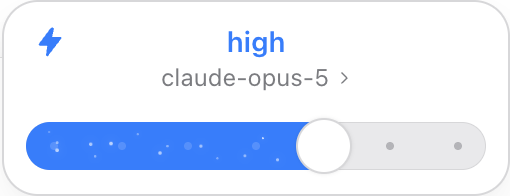
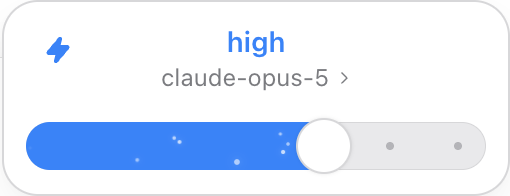
fix: 对齐 Codex 闪电开关的完整动画过渡
将局部往返漂移改为按完整轨道计算的单向粒子流，匹配圆点离场与回位、最高档粒子交接、按钮尺寸和图标状态。

补充单向匀速运动、菜单重开和最高档交接验证，更新 DSH 实录动图与动画参数对照。

diff --git a/src/styles.css b/src/styles.css
@@ -1,28 +1,41 @@
 .dcp-settings{color:var(--dsw-alias-label-primary);font:inherit;width:100%}.dcp-setting-row{display:flex;align-items:center;justify-content:space-between;gap:24px;padding:16px 0;border-bottom:.5px solid var(--dsw-alias-border-l2);font-size:14px;line-height:20px}
 .dcp-segmented{display:flex;gap:2px;border-radius:10px;background:color-mix(in srgb,currentColor 6%,transparent);padding:3px}.dcp-segmented label{position:relative;cursor:pointer}.dcp-segmented input{position:absolute;opacity:0;width:100%;height:100%;margin:0}.dcp-segmented span{display:block;padding:7px 14px;border-radius:8px;font-size:13px}.dcp-segmented input:checked+span{background:var(--ds-color-background-elevated,#fff);box-shadow:0 1px 4px #00000014}.dcp-segmented input:focus-visible+span{outline:2px solid #387df8;outline-offset:1px}
 
-.dcp-picker-trigger,.dcp-picker-panel{--dcp-text:#161719;--dcp-muted:#7b7c80;--dcp-surface:#fff;--dcp-border:#d7d7d9;--dcp-hover:#f3f3f4;--dcp-track:#e9e9eb;--dcp-accent:#387dfa;box-sizing:border-box;color:var(--dcp-text);font-family:-apple-system,BlinkMacSystemFont,"Segoe UI",sans-serif}
+.dcp-picker-trigger,.dcp-picker-panel{--dcp-text:#161719;--dcp-muted:#7b7c80;--dcp-surface:#fff;--dcp-border:#d7d7d9;--dcp-hover:#f3f3f4;--dcp-track:#e9e9eb;--dcp-accent:#3a83f7;--dcp-purple:#924ff7;box-sizing:border-box;color:var(--dcp-text);font-family:-apple-system,BlinkMacSystemFont,"Segoe UI",sans-serif}
 .dcp-picker-trigger{display:inline-flex;align-items:center;gap:4px;max-width:360px;border:0;background:transparent;padding:4px 5px;font-size:13px;line-height:20px;cursor:pointer;border-radius:999px;padding:4px 10px;transition:background-color .12s ease}.dcp-picker-trigger>span:first-child{overflow:hidden;white-space:nowrap;text-overflow:ellipsis}.dcp-picker-trigger .dcp-chevron{transform:rotate(90deg);margin-left:2px;width:10px;height:10px;color:var(--dcp-muted)}.dcp-trigger-effort{color:var(--dcp-muted);flex:none}.dcp-picker-trigger:not(:disabled):hover{background:var(--dcp-hover)}
 .dcp-chevron,.dcp-check{flex:none;fill:none;stroke:currentColor;stroke-linecap:round;stroke-linejoin:round;stroke-width:1.5}.dcp-check{color:var(--dcp-muted)}
 .dcp-picker-panel{position:fixed;z-index:1200;width:min(254px,calc(100vw - 24px));border:.5px solid var(--dcp-border);border-radius:18px;background:var(--dcp-surface);box-shadow:0 8px 18px #00000010;overflow:hidden;padding:8px;isolation:isolate}.dcp-picker-content{display:flex;flex-direction:column;height:100%;min-height:0}.dcp-picker-views{position:relative;flex:1;min-height:0;overflow:clip}.dcp-picker-pane{position:absolute;inset:0 0 auto;opacity:1;translate:0}.dcp-picker-models{height:100%;display:flex;flex-direction:column}.dcp-picker-pane[data-active=false]{pointer-events:none;opacity:0}.dcp-picker-root[data-active=false]{translate:0 -10px}.dcp-picker-models[data-active=false]{translate:0 10px}.dcp-model-header{flex:none}.dcp-model-list{flex:1;min-height:0;overflow-y:auto;overscroll-behavior:contain;scrollbar-width:none}.dcp-model-list::-webkit-scrollbar{display:none;width:0;height:0}
 .dcp-picker-panel *{box-sizing:border-box}.dcp-picker-panel button{color:inherit;font:inherit;cursor:pointer}.dcp-picker-panel button:disabled,.dcp-picker-trigger:disabled{cursor:default;opacity:.5}.dcp-picker-panel button:focus-visible,.dcp-picker-trigger:focus-visible{outline:2px solid var(--dcp-accent,#387dfa);outline-offset:1px}
 .dcp-codex-effort{padding:0 3px 2px}.dcp-effort-title{text-align:center;color:var(--dcp-accent);font-size:14px;line-height:20px;font-weight:600}.dcp-model-link{display:flex;flex-direction:column;align-items:center;justify-content:center;max-width:100%;margin:0 auto;padding:2px 8px;border:0;border-radius:6px;background:transparent;transition:background-color .12s ease}.dcp-model-link:hover,.dcp-model-link:focus-visible{background:var(--dcp-hover)}.dcp-current-model{display:flex;align-items:center;justify-content:center;gap:3px;max-width:100%;font-size:12px;line-height:16px;color:var(--dcp-muted);white-space:nowrap;overflow:hidden;text-overflow:ellipsis}.dcp-model-link .dcp-chevron{width:8px;height:8px}
-.dcp-effort-header{position:relative}.dcp-effort-header .dcp-model-link{max-width:calc(100% - 48px)}.dcp-picker-panel .dcp-boost{position:absolute;top:0;left:0;display:grid;place-items:center;width:24px;height:24px;border:0;border-radius:6px;padding:4px;background:transparent;color:var(--dcp-muted);transition:color .15s ease,background-color .12s ease}.dcp-boost svg{fill:transparent;stroke:currentColor;stroke-width:1.6;stroke-linecap:round;stroke-linejoin:round;transition:fill .15s ease}.dcp-boost:hover{background:var(--dcp-hover)}.dcp-picker-panel .dcp-boost[aria-pressed=true]{color:var(--dcp-accent)}.dcp-boost[aria-pressed=true] svg{fill:currentColor}
+.dcp-effort-header{position:relative}.dcp-effort-header .dcp-model-link{max-width:calc(100% - 64px)}.dcp-picker-panel .dcp-boost{position:absolute;top:0;left:0;display:grid;place-items:center;width:32px;height:32px;border:0;border-radius:8px;padding:0;background:transparent;color:var(--dcp-muted)}.dcp-boost-content{display:grid;place-items:center;width:26px;height:26px;border-radius:7px}.dcp-boost svg{fill:currentColor}.dcp-boost:hover .dcp-boost-content,.dcp-boost:focus-visible .dcp-boost-content{background:var(--dcp-hover)}.dcp-picker-panel .dcp-boost[aria-pressed=true]{color:var(--dcp-accent)}.dcp-codex-effort[data-highest] .dcp-boost[aria-pressed=true]{color:var(--dcp-purple)}
 .dcp-current-model>span{min-width:0;overflow:hidden;text-overflow:ellipsis}
+.dcp-max-particle-layer{position:absolute;inset:0;z-index:3;pointer-events:none;opacity:1;transform:translateX(0)}.dcp-codex-effort[data-boosted] .dcp-max-particle-layer{opacity:0;transform:translateX(-110px);transition:opacity .55s cubic-bezier(.42,0,1,1) 1s,transform 1.35s cubic-bezier(.42,0,1,1) .2s}.dcp-max-particle-layer[data-returning]{animation:dcp-max-particles-return-x .5s ease-out .05s both,dcp-max-particles-return-opacity .5s linear .05s both}
+.dcp-fast-clip{position:absolute;inset:0;z-index:4;overflow:hidden;pointer-events:none;opacity:0;visibility:hidden;clip-path:inset(0 calc((100% - 28px)*(1 - var(--dcp-progress)) + 14px) 0 0);transition:clip-path var(--dcp-motion),opacity .25s cubic-bezier(.42,0,.58,1),visibility 0s .25s}.dcp-codex-effort[data-boosted] .dcp-fast-clip{opacity:1;visibility:visible;transition:clip-path var(--dcp-motion),opacity .08s cubic-bezier(.42,0,.58,1)}.dcp-codex-effort[data-highest] .dcp-fast-clip{clip-path:inset(0);transition:clip-path var(--dcp-motion),opacity .3s linear .1s,visibility 0s .4s}.dcp-codex-effort[data-highest][data-boosted] .dcp-fast-clip{transition:clip-path var(--dcp-motion),opacity .25s cubic-bezier(.42,0,1,1)}.dcp-codex-effort[data-minimum] .dcp-fast-clip{clip-path:inset(0 100% 0 0)}
+.dcp-fast-particles{position:absolute;inset:0;overflow:hidden;pointer-events:none}.dcp-fast-path{position:absolute;inset-inline:0;height:0;opacity:0;will-change:transform;animation:dcp-fast-travel linear infinite}.dcp-fast-path i{position:absolute;top:0;left:0;display:block;width:3px;height:3px;border-radius:999px;background:#ffffffb8;box-shadow:0 0 5px #ffffff57}.dcp-picker-root[data-active=false] .dcp-fast-path{animation-play-state:paused}
+@keyframes dcp-fast-travel{0%{opacity:0;transform:translateX(100%)}8%{opacity:1;transform:translateX(92%)}92%{opacity:1;transform:translateX(8%)}100%{opacity:0;transform:translateX(0)}}
+@keyframes dcp-max-particles-return-x{from{transform:translateX(28px)}to{transform:translateX(0)}}
+@keyframes dcp-max-particles-return-opacity{from{opacity:0}to{opacity:1}}
 .dcp-slider{position:relative;height:28px;margin-top:10px;--dcp-motion:.3s cubic-bezier(.23,1,.32,1)}.dcp-rail{position:absolute;inset:2px 0;height:24px;border-radius:12px;background:var(--dcp-track);box-shadow:inset 0 0 0 .5px #00000014;overflow:hidden}.dcp-rail-fill{position:absolute;inset:0 auto 0 0;width:calc(14px + (100% - 28px)*var(--dcp-progress));border-radius:12px 0 0 12px;background:var(--dcp-accent);transition:width var(--dcp-motion)}
 .dcp-ticks{position:absolute;inset:0 14px;pointer-events:none}.dcp-ticks i{position:absolute;top:50%;width:4px;height:4px;border-radius:50%;background:#b4b4b8;transform:translate(-50%,-50%);transition:transform .12s ease,filter .12s ease,background-color var(--dcp-motion)}.dcp-ticks i[data-filled]{background:#ffffff55}.dcp-ticks i[data-hovered]{filter:brightness(.85);transform:translate(-50%,-50%) scale(2)}
+.dcp-ticks i{transition:transform .12s ease,translate .12s linear,opacity .2s ease-in-out,filter .12s ease,background-color var(--dcp-motion)}.dcp-ticks i[data-filled]{background:#ffffff4d}.dcp-codex-effort[data-boosted] .dcp-ticks i[data-filled]{opacity:0;transform:translate(-50%,-50%) scale(.75);translate:-85px}.dcp-codex-effort[data-boost-phase=entering]:not([data-highest]) .dcp-ticks i[data-filled]{animation:dcp-boost-tick-scale .8s cubic-bezier(.23,1,.32,1) both,dcp-boost-tick-travel 1.15s ease-in-out .05s both,dcp-boost-tick-fade .5s ease-in-out .7s both}.dcp-codex-effort[data-boost-phase=active] .dcp-ticks i{transition:background-color var(--dcp-motion),opacity 0s,filter .12s ease,transform 0s,translate 0s}.dcp-codex-effort[data-boost-phase=exiting]:not([data-highest]) .dcp-ticks i[data-filled]{animation:dcp-boost-tick-return-scale .35s ease-in-out both,dcp-boost-tick-return-travel .35s ease-out both,dcp-boost-tick-return-fade .2s ease-in-out both}
+@keyframes dcp-boost-tick-scale{from{transform:translate(-50%,-50%) scale(1)}to{transform:translate(-50%,-50%) scale(.75)}}
+@keyframes dcp-boost-tick-travel{from{translate:0}to{translate:-85px}}
+@keyframes dcp-boost-tick-fade{from{opacity:1}to{opacity:0}}
+@keyframes dcp-boost-tick-return-scale{from{transform:translate(-50%,-50%) scale(.75)}to{transform:translate(-50%,-50%) scale(1)}}
+@keyframes dcp-boost-tick-return-travel{from{translate:10px}to{translate:0}}
+@keyframes dcp-boost-tick-return-fade{from{opacity:0}to{opacity:1}}
 .dcp-slider input{appearance:none;-webkit-appearance:none;position:absolute;inset:0;width:100%;height:28px;background:transparent;margin:0;cursor:default;touch-action:none;border:0;outline:none;border-radius:12px}.dcp-slider input::-webkit-slider-runnable-track{height:24px;background:transparent}.dcp-slider input::-webkit-slider-thumb{appearance:none;-webkit-appearance:none;width:28px;height:28px;margin-top:-2px;background:transparent;border:0;box-shadow:none}.dcp-slider input::-moz-range-track{height:24px;background:transparent}.dcp-slider input::-moz-range-thumb{width:28px;height:28px;background:transparent;border:0;box-shadow:none}.dcp-slider input:focus-visible{outline:none}.dcp-slider:has(input:focus-visible) .dcp-slider-thumb{outline:2px solid var(--dcp-accent);outline-offset:0}.dcp-slider input:disabled{cursor:default}.dcp-codex-effort[data-dragging] .dcp-slider{--dcp-motion:.15s cubic-bezier(.23,1,.32,1);cursor:grabbing}.dcp-codex-effort[data-dragging] .dcp-slider input{cursor:grabbing}
-.dcp-codex-effort[data-highest] .dcp-effort-title{color:#9655ff}.dcp-codex-effort[data-highest] .dcp-rail-fill{width:100%}.dcp-max-fill{position:absolute;inset:0;border-radius:12px;background:linear-gradient(90deg,#6471fc,#a15bff 55%,#8264fe);isolation:isolate;overflow:hidden;mask-image:linear-gradient(90deg,transparent calc(var(--dcp-reveal) - 120px),#000 var(--dcp-reveal))}.dcp-max-fill[data-reveal]{animation:dcp-max-reveal 2s both}.dcp-codex-effort[data-highest] .dcp-ticks{opacity:0}
+.dcp-codex-effort[data-highest] .dcp-effort-title{color:var(--dcp-purple)}.dcp-codex-effort[data-highest] .dcp-rail-fill{width:100%}.dcp-max-fill{position:absolute;inset:0;border-radius:12px;background:linear-gradient(90deg,#6471fc,#a15bff 55%,#8264fe);isolation:isolate;overflow:hidden;mask-image:linear-gradient(90deg,transparent calc(var(--dcp-reveal) - 120px),#000 var(--dcp-reveal))}.dcp-max-fill[data-reveal]{animation:dcp-max-reveal 2s both}.dcp-codex-effort[data-highest] .dcp-ticks{opacity:0}
 .dcp-max-fill canvas{display:block;width:100%;height:100%;mix-blend-mode:luminosity}.dcp-particles{position:absolute;inset:0;overflow:hidden;border-radius:12px;pointer-events:none}.dcp-particles i{position:absolute;display:block;width:3px;height:3px;border-radius:50%;background:#ffffffb8;box-shadow:0 0 5px #ffffff57;animation:dcp-spark var(--drift-duration) cubic-bezier(.45,0,.55,1) infinite alternate}
-.dcp-particles[data-boosted]{right:auto;width:calc(14px + (100% - 28px)*var(--dcp-progress));transition:width var(--dcp-motion)}.dcp-particles[data-boosted] i{width:2px;height:2px;--spark-drift:10px;animation-duration:var(--boost-duration)}.dcp-codex-effort[data-highest] .dcp-particles{width:100%}.dcp-codex-effort[data-minimum] .dcp-particles{width:0}.dcp-codex-effort[data-boosted] .dcp-ticks i[data-filled]{background:#ffffff26}
+
 .dcp-thumb-particles{position:absolute;left:calc(14px + (100% - 28px)*var(--dcp-progress));top:50%;pointer-events:none}.dcp-thumb-particles i{position:absolute;width:5px;height:5px;border-radius:50%;background:color-mix(in srgb,#a15bff var(--spark-purple,100%),#387dfa);animation:dcp-thumb-spark .62s cubic-bezier(.25,1,.5,1) both}
 @keyframes dcp-thumb-spark{0%{opacity:0;transform:translate(-50%,-50%) scale(.25)}22%{opacity:1;transform:translate(-50%,-50%) scale(1.28)}100%{opacity:0;transform:translate(calc(-50% + var(--spark-x)),calc(-50% + var(--spark-y))) scale(.55)}}
 @property --dcp-reveal{syntax:'<percentage>';inherits:false;initial-value:0%}
 @keyframes dcp-max-reveal{from{--dcp-reveal:100%}to{--dcp-reveal:0%}}
-@keyframes dcp-spark{from{transform:translate(calc(-50% - var(--spark-drift,4px)),calc(-50% + var(--drift-start))) scale(var(--particle-scale))}to{transform:translate(calc(-50% + var(--spark-drift,4px)),calc(-50% + var(--drift-end))) scale(var(--particle-scale))}}
+@keyframes dcp-spark{from{transform:translate(calc(-50% - 4px),calc(-50% + var(--drift-start))) scale(var(--particle-scale))}to{transform:translate(calc(-50% + 4px),calc(-50% + var(--drift-end))) scale(var(--particle-scale))}}
 .dcp-model-list{display:flex;flex-direction:column;gap:4px}.dcp-model-group{position:relative;flex:none;min-width:0}.dcp-model-group-title{position:sticky;top:0;z-index:1;border-radius:var(--dsw-radius-md,12px);padding:4px 7px 2px;background:var(--dcp-surface);color:var(--dsw-alias-label-tertiary,var(--dcp-muted));font-size:11px;font-weight:500;line-height:16px}.dcp-model-option{display:flex;align-items:center;gap:6px;min-height:34px;width:100%;border:0;background:transparent;border-radius:var(--dsw-radius-md,10px);padding:5px 7px;text-align:left}.dcp-model-option[aria-checked=true],.dcp-model-option:hover:not(:disabled),.dcp-model-option:focus-visible{background:var(--dsw-alias-interactive-bg-hover,var(--dcp-hover))}.dcp-model-name{flex:1;min-width:0;overflow:hidden;text-overflow:ellipsis;white-space:nowrap;font-size:13px;line-height:18px}.dcp-model-option .dcp-check{margin-left:auto;width:14px;height:14px;color:var(--dsw-alias-label-primary,var(--dcp-text))}.dcp-picker-panel[data-pane=models]{padding:4px;color:var(--dsw-alias-label-primary,var(--dcp-text));background:var(--dcp-surface);border-color:var(--dsw-alias-border-l1,var(--dcp-border))}
 .dcp-model-search{width:100%;margin:2px 0 3px;border:0;border-radius:var(--dsw-radius-md,12px);padding:5px 7px;background:transparent;color:inherit;font:inherit;font-size:12px;line-height:normal;outline:none}.dcp-model-search::placeholder{color:var(--dsw-alias-label-caption,var(--dcp-muted))}.dcp-picker-empty{padding:8px 4px;font-size:12px;color:var(--dcp-muted)}.dcp-picker-error{display:flex;align-items:center;gap:8px;font-size:11px;line-height:16px;color:#bd3434;margin:8px 4px 0}.dcp-picker-error button{border:0;background:transparent;text-decoration:underline;padding:0;flex:none}
-body[data-ds-dark-theme] .dcp-picker-trigger,body[data-ds-dark-theme] .dcp-picker-panel{--dcp-text:#eeeef0;--dcp-muted:#a3a3a8;--dcp-surface:#252527;--dcp-border:#444449;--dcp-hover:#333336;--dcp-track:#444448}
+body[data-ds-dark-theme] .dcp-picker-trigger,body[data-ds-dark-theme] .dcp-picker-panel{--dcp-text:#eeeef0;--dcp-muted:#a3a3a8;--dcp-surface:#252527;--dcp-border:#444449;--dcp-hover:#333336;--dcp-track:#444448;--dcp-purple:#ad7bf9}
 body[data-ds-dark-theme] .dcp-segmented input:checked+span{background:#39393c}
 @media(max-width:600px){.dcp-setting-row{align-items:flex-start;flex-direction:column;gap:12px;padding:16px 0}.dcp-picker-trigger{max-width:240px}}
 @media(prefers-reduced-motion:reduce){.dcp-particles i,.dcp-thumb-particles i,.dcp-max-fill,.dcp-max-fill[data-reveal]{animation:none}.dcp-thumb-particles{display:none}}
@@ -36,6 +49,7 @@ body[data-ds-dark-theme] .dcp-segmented input:checked+span{background:#39393c}
 @keyframes dcp-popup-out{from{opacity:var(--dcp-close-opacity,1);transform:scale(var(--dcp-close-scale,1))}to{opacity:0;transform:scale(.98)}}
 @keyframes dcp-popup-in{from{opacity:0;transform:scale(.98)}to{opacity:1;transform:scale(1)}}
 @media(prefers-reduced-motion:reduce){.dcp-picker-panel,.dcp-picker-panel[data-state=closing],.dcp-picker-pane,.dcp-effort-title>span{animation:none}.dcp-picker-panel,.dcp-picker-pane,.dcp-slider-position,.dcp-rail-fill,.dcp-ticks i,.dcp-particles,.dcp-boost,.dcp-boost svg{transition:none}}
+@media(prefers-reduced-motion:reduce){.dcp-fast-clip,.dcp-max-particle-layer{display:none}.dcp-fast-path,.dcp-codex-effort .dcp-ticks i[data-filled],.dcp-max-particle-layer{animation:none!important}.dcp-fast-clip,.dcp-max-particle-layer{transition:none}}
 
 .dcp-model-header{background:var(--dcp-surface);z-index:1}.dcp-model-option{flex:none}.dcp-codex-effort[data-minimum] .dcp-rail-fill{width:0}
 

diff --git a/src/picker.jsx b/src/picker.jsx
@@ -2,12 +2,18 @@ import { decorateSlot } from './slot-decoration.js';
 import React, {useEffect, useId, useLayoutEffect, useRef, useState, useSyncExternalStore} from 'react';
 import {createPortal} from 'react-dom';
 import {pickerModel, modelSelection, filterModelGroups} from './picker-model.js';
-import {MaxFill, TrackParticles} from './max-effects.jsx';
+import {MaxFill, TrackParticles, FastTrackParticles} from './max-effects.jsx';
 
 function Chevron() {
   return <svg className="dcp-chevron" aria-hidden="true" width="12" height="12" viewBox="0 0 16 16"><path d="m6 3 5 5-5 5"/></svg>;
 }
 const Check = () => <svg className="dcp-check" aria-hidden="true" width="16" height="16" viewBox="0 0 20 20"><path d="m4 10 4 4 8-10"/></svg>;
+
+function Lightning({filled}) {
+  const outline = 'M8.343 1.713C9.038 1.019 10.255 1.67 10.014 2.664L9.327 5.496h3.267c.978 0 1.51 1.143.88 1.891l-5.751 6.829c-.681.807-1.985.146-1.737-.88l.687-2.832H3.406c-.978 0-1.51-1.143-.88-1.891l5.751-6.829.066-.071Z';
+  const cutout = 'M3.329 9.29c-.054.065-.008.164.077.164h3.617c.502 0 .871.47.752.958l-.718 2.964 5.614-6.666c.054-.065.008-.164-.077-.164H8.978c-.502 0-.871-.471-.753-.958l.717-2.965L3.329 9.29Z';
+  return <svg aria-hidden="true" width="16" height="16" viewBox="0 0 16 16"><path fillRule="evenodd" d={filled ? outline : outline + cutout}/></svg>;
+}
 
 function useThumbSpring(thumb, highlighted) {
   useEffect(() => {
@@ -75,6 +81,12 @@ function EffortSlider({levels, effort, busy, onSelect, modelName, onModels, boos
   const wasHighest = useRef(highest), [burst, setBurst] = useState(false);
   useEffect(() => {setBurst(highest && !wasHighest.current); wasHighest.current = highest;}, [highest]);
   const fraction = levels.length > 1 ? index / (levels.length - 1) : 0;
+  const [boostMotion, setBoostMotion] = useState({enabled: boosted, phase: boosted ? 'active' : 'inactive', sequence: 0, start: 0});
+  if (boostMotion.enabled !== boosted) setBoostMotion({enabled: boosted, phase: boosted ? 'entering' : 'exiting', sequence: boostMotion.sequence + 1, start: boosted ? fraction : boostMotion.start});
+  useEffect(() => {
+    const timer = setTimeout(() => setBoostMotion(previous => ({...previous, phase: boosted ? 'active' : 'inactive'})), boosted ? 1200 : 350);
+    return () => clearTimeout(timer);
+  }, [boosted]);
   const commit = async () => {
     const next = draft.current;
     if (levels[next]?.id === effort) return;
@@ -85,10 +97,10 @@ function EffortSlider({levels, effort, busy, onSelect, modelName, onModels, boos
     }
   };
   const title = dragging.current || hostIndex >= 0 ? selected.label : effort ?? 'Default';
-  return <div className="dcp-codex-effort" data-highest={highest || undefined} data-boosted={boosted || undefined} data-dragging={isDragging || undefined} data-minimum={index === 0 || undefined}>
+  return <div className="dcp-codex-effort" data-highest={highest || undefined} data-boosted={boosted || undefined} data-boost-phase={boostMotion.phase} data-dragging={isDragging || undefined} data-minimum={index === 0 || undefined}>
     <div className="dcp-effort-header">
       <button type="button" className="dcp-boost" aria-label="加速动画" aria-pressed={boosted} title={boosted ? '关闭加速动画' : '开启加速动画'} onClick={onBoost}>
-        <svg aria-hidden="true" width="16" height="16" viewBox="0 0 24 24"><path d="m13.2 2-9 12h6.7L9.8 22l10-13h-7.2l1.6-7z"/></svg>
+        <span className="dcp-boost-content"><Lightning filled={boosted}/></span>
       </button>
       <button type="button" className="dcp-model-link" onClick={onModels}>
         <span className="dcp-effort-title" aria-live="polite"><span>{title}</span></span>
@@ -100,7 +112,8 @@ function EffortSlider({levels, effort, busy, onSelect, modelName, onModels, boos
       <div className="dcp-rail-fill"/>
       {highest && <MaxFill reveal={burst}/>}
       <div className="dcp-ticks" aria-hidden="true">{levels.map((level, n) => <i key={level.key} data-hovered={hoveredTick === n || undefined} data-filled={n <= index || undefined} style={{left: `${levels.length > 1 ? n / (levels.length - 1) * 100 : 0}%`}}/>)}</div>
-      {(highest || boosted) && <TrackParticles boosted={boosted}/>}
+      {highest && <div className="dcp-max-particle-layer" key={boostMotion.sequence - (boosted ? 1 : 0)} data-returning={!boosted && boostMotion.sequence > 0 || undefined}><TrackParticles/></div>}
+      <div className="dcp-fast-clip" aria-hidden="true"><FastTrackParticles key={boostMotion.sequence - (boosted ? 0 : 1)} initialProgress={boostMotion.start}/></div>
       </div>
       {highest && burst && <div className="dcp-thumb-particles" aria-hidden="true">{Array.from({length: 16}, (_, n) => {
         const angle = n * Math.PI / (n < 11 ? 5.5 : 2.5) - Math.PI / 2 + Math.sin(n * 3) * .13, radius = n < 11 ? 33 + Math.sin(n) * 2 : 23 + Math.cos(n) * 2;

diff --git a/src/max-effects.jsx b/src/max-effects.jsx
@@ -37,12 +37,28 @@ export function MaxFill({reveal}) {
   return <div className="dcp-max-fill" data-reveal={reveal || undefined} aria-hidden="true"><canvas ref={canvas}/></div>;
 }
 
-export function TrackParticles({boosted}) {
-  return <div className="dcp-particles" data-boosted={boosted || undefined} aria-hidden="true">{Array.from({length: 14}, (_, n) => <i key={n} style={{
+export function TrackParticles() {
+  return <div className="dcp-particles" aria-hidden="true">{Array.from({length: 14}, (_, n) => <i key={n} style={{
     left: `${4 + n * 37 % 92}%`, top: '50%', opacity: .4 + (n * 17 % 60) / 100,
     '--particle-scale': .5 + (n * 13 % 45) / 100,
     '--drift-start': `${n * 11 % 15 - 7}px`, '--drift-end': `${n * 7 % 15 - 7}px`,
     '--drift-duration': `${1.28 + (n * 19 % 192) / 100}s`, animationDelay: `${-n * .37}s`,
-    '--boost-duration': `${.8 + (n * 19 % 90) / 100}s`,
   }}/>)}</div>;
+}
+
+function particleRandom(index, seed) {
+  const value = Math.sin((index + 1) * 12.9898 + seed * 78.233) * 43758.5453;
+  return value - Math.floor(value);
+}
+
+// Paths span the full track; clipping follows the thumb without changing speed.
+export function FastTrackParticles({initialProgress}) {
+  const [start] = React.useState(initialProgress);
+  return <div className="dcp-fast-particles" aria-hidden="true">{Array.from({length: 14}, (_, index) => {
+    const duration = 1.9 / (1 + (particleRandom(index, 21) - .5) * .4);
+    return <span className="dcp-fast-path" key={index} style={{
+      top: `${12 + particleRandom(index, 23) * 76}%`,
+      animationDuration: `${duration}s`, animationDelay: `${index * 1.9 / 14 - duration * (1 - start)}s`,
+    }}><i style={{opacity: .4 + particleRandom(index, 11) * .6, transform: `translate(-50%,-50%) scale(${.5 + particleRandom(index, 12) * .45})`}}/></span>;
+  })}</div>;
 }

diff --git a/docs/fast-animation-parity.md b/docs/fast-animation-parity.md
@@ -1,0 +1,19 @@
+# 闪电加速动效对照
+
+参考用户提供的 Codex 截图与 2026-10-20 本机客户端的静态界面资源：`impl-6a63a3972d45.js`、`impl-9597edf4b611.css`、`app-primary-71492d0e9e92.css`。本插件独立实现动画，闪电开关只控制视觉状态。
+
+| 部分 | 对照参数 |
+| --- | --- |
+| 闪电按钮 | 32 × 32px 点击区域、26 × 26px 悬停区域、7px 内圆角、16px 图标；关闭时空心，开启时实心，最高档使用紫色。 |
+| 加速粒子 | 14 个粒子沿整条轨道从右向左匀速穿越，基准周期 1.9 秒，速度分散在 80%–120%。 |
+| 粒子外观 | 3px 基础直径，缩放 0.5–0.95，透明度 0.4–1，纵向分布在轨道的 12%–88%。 |
+| 粒子错峰 | 相邻粒子约错开 136ms；首轮从当前滑块附近进入，重新打开菜单时直接显示持续运动的状态。 |
+| 裁剪 | 运动路径始终按完整轨道计算，已填充范围之外不可见；切档只改变裁剪范围，不改变粒子速度。 |
+| 开启圆点过渡 | 800ms 缩小至 75%；延迟 50ms 后用 1150ms 左移 85px；延迟 700ms 后用 500ms 淡出。 |
+| 关闭圆点过渡 | 350ms 恢复尺寸并从右侧 10px 处归位，200ms 淡入。 |
+| 粒子层淡入／淡出 | 普通档开启 80ms、关闭 250ms；最高档开启 250ms、关闭延迟 100ms 后淡出 300ms。 |
+| 最高档粒子交接 | 开启时原有漂浮粒子延迟 200ms 后左移 110px，延迟 1 秒后淡出；关闭时从右侧 28px 处用 500ms 回位、淡入。紫色底层保持连续。 |
+
+减少动态效果时停用流动粒子和圆点过渡。菜单重开不重复播放闪电开启过渡，也不会触发最高档气泡扩散。
+
+自动验证覆盖整条轨道的单向匀速运动、圆点过渡、关闭回位、菜单重开、减少动态效果，以及不调用模型保存接口、不增加请求加速参数。

diff --git a/README.md b/README.md
@@ -28,11 +28,13 @@
 
 滑块切档有吸附动画，悬停时放大，拖动时显示拖动光标。菜单包含打开、关闭与面板切换动画；最高档位的粒子扩散只在切入时播放，不额外添加 Ultra 档位。
 
-左上角的闪电可开启加速动效：闪电变蓝，轨道内的粒子加速漂移。这个开关只改变动画，不改变模型、推理档位或请求参数；关闭菜单后再次打开仍保留开关状态。面板打开时，下方入口显示「选择推理强度」。
+左上角的闪电可开启加速动效：已填充区域的圆点缩小、左移并淡出，细小粒子沿轨道从右向左穿越；关闭后圆点平滑回位。闪电开启后显示实心图标，普通档为蓝色，最高档为紫色。这个开关只改变动画，不改变模型、推理档位或请求参数；关闭菜单后再次打开仍保留开关状态。面板打开时，下方入口显示「选择推理强度」。
 
 <p align="center">
-  <img src="docs/assets/codex-boost.png" width="480" alt="左上角蓝色闪电开启后，非最高档位的蓝色轨道也会显示加速漂移的粒子">
+  <img src="docs/assets/codex-fast-v0.1.6.gif" width="480" alt="实际 DSH 页面中的闪电开关：圆点左移淡出、粒子从右向左穿过轨道、关闭后圆点回位">
 </p>
+
+动画的轨迹、尺寸和时序对照见 [加速动效说明](docs/fast-animation-parity.md)。
 
 ### 在同一菜单中切换模型
 

diff --git a/docs/VERIFICATION.md b/docs/VERIFICATION.md
@@ -1,5 +1,13 @@
 # 验证记录
 
+## 2026-10-20 加速动画对照修正 0.1.6
+
+对照本机 Codex 的界面资源，重做闪电开关的整轨道单向粒子、圆点离场／回位、最高档粒子交接和按钮尺寸。具体时序见 [加速动效对照](fast-animation-parity.md)。
+
+构建、10 项逻辑测试、选择器状态测试与隔离 DSH 0.2.1-rc.2 页面测试通过。逐帧确认粒子从右向左匀速穿越完整轨道；重新打开菜单跳过开启动画；普通档和最高档分别显示蓝色、紫色闪电；关闭后原有圆点和最高档漂浮粒子恢复。模型保存接口调用、配置文件和请求参数检查保持通过。
+
+![实际 DSH 页面中的开关过程](assets/codex-fast-v0.1.6.gif)
+
 ## 2026-10-20 加速动效 0.1.5
 
 宿主：DeepSeek Harness 0.2.1-rc.2。构建、10 项逻辑测试、选择器状态测试与隔离 DSH 页面测试通过。
